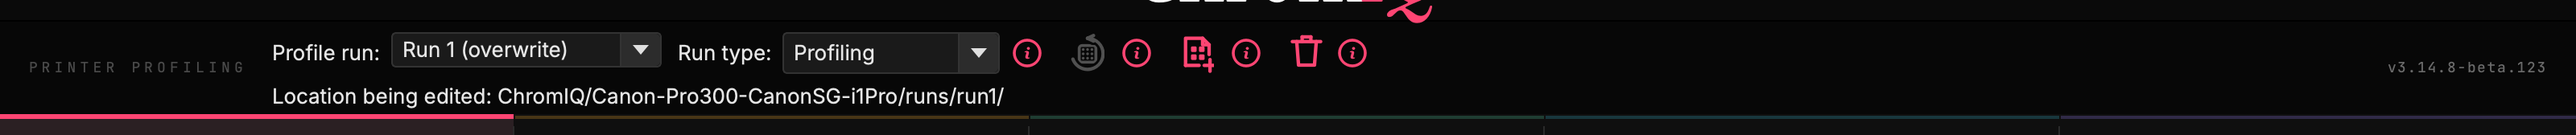
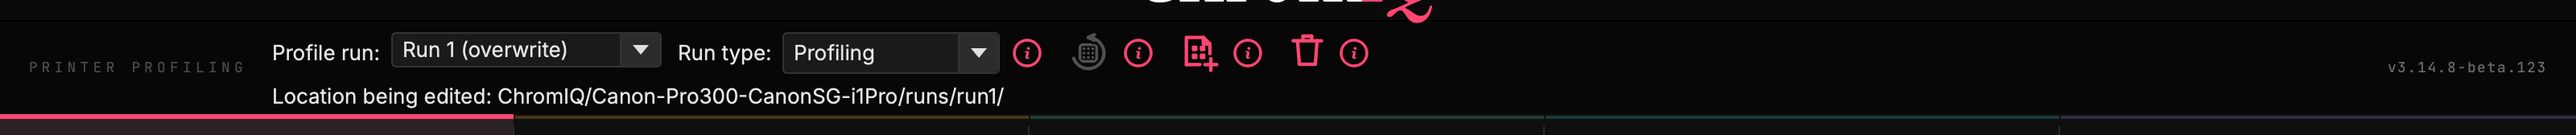
#130: give the marks room to move, then shift the whole cluster 1 px right
Basti asked why the icons were losing pixels. They were, and the reason is that
each mark was drawn on a canvas exactly its own size, so any offset pushed part
of it over the edge. Measured before this change: at right 6 the duplicate mark
had already lost FIVE pixels of its width, and restore one. Neither of us had
noticed — the ⓘ was simply the first place it became obvious.

The mark's pixmap is now the button's full square rather than the mark's own,
which leaves about 6 px of slack on each side. The mark is drawn at the same
size in the middle of it, so nothing on screen changes except that a nudge no
longer costs anything: restore and delete now lose zero pixels, and duplicate
sits exactly at the boundary with nothing lost.

Then the pass he asked for: every mark and every ⓘ one pixel right.

    restore    mark right 4   ·  ⓘ right 1
    duplicate  mark right 7, down 1  ·  ⓘ right 1
    delete     mark right 4, up 2    ·  ⓘ left 1

Changed region(s): [[0.4062, 0.2679, 0.5312, 0.506]]

diff --git a/ui/bar_icons.py b/ui/bar_icons.py
@@ -145,18 +145,27 @@ def draw_restore_chart(p: QPainter, colour: str) -> None:
         p.drawLine(a, b)
 
 
-def _pixmap(draw, colour: str, size: int, nudge: "tuple[float, float]" = (0.0, 0.0)) -> QPixmap:
-    pm = QPixmap(size * 2, size * 2)
+def _pixmap(draw, colour: str, size: int, nudge: "tuple[float, float]" = (0.0, 0.0),
+            canvas: "int | None" = None) -> QPixmap:
+    """The mark at *size*, drawn on a *canvas*-wide pixmap and offset by *nudge*.
+
+    **The canvas is deliberately bigger than the mark.** Drawn edge to edge, a
+    nudged mark loses whatever crosses the boundary — and it did: at right 6 the
+    duplicate mark had lost five pixels of its width before anyone noticed,
+    which is the same fault Basti spotted on the ⓘ (#130, 2026-08-03). Giving
+    the pixmap the button's full width leaves about 6 px of slack on each side,
+    which is enough for every offset the bar uses, and Qt centres the larger
+    icon in the same button so nothing else moves.
+    """
+    canvas = canvas or size
+    pm = QPixmap(canvas * 2, canvas * 2)
     pm.setDevicePixelRatio(2.0)
     pm.fill(Qt.GlobalColor.transparent)
     p = QPainter(pm)
     p.setRenderHint(QPainter.RenderHint.Antialiasing)
+    # Centre the mark's own box on the canvas, then move it by the nudge.
+    p.translate((canvas - size) / 2 + nudge[0], (canvas - size) / 2 + nudge[1])
     p.scale(size / _BOX, size / _BOX)
-    # *nudge* is in device-independent pixels, applied before the glyph is
-    # drawn — so the mark moves inside its box and the button itself does not.
-    # The hit area, the layout and every neighbour stay exactly where they are.
-    if nudge != (0.0, 0.0):
-        p.translate(nudge[0] * _BOX / size, nudge[1] * _BOX / size)
     try:
         draw(p, colour)
     finally:
@@ -233,7 +242,8 @@ class BarIconButton(QToolButton):
         self.setAccessibleName(text)
         self.setToolButtonStyle(Qt.ToolButtonStyle.ToolButtonIconOnly)
         self.setFixedSize(QSize(self.HEIGHT, self.HEIGHT))
-        self.setIconSize(QSize(self.ICON, self.ICON))
+        # The icon is canvas-sized; the MARK inside it is still ICON.
+        self.setIconSize(QSize(self.HEIGHT, self.HEIGHT))
         # Icon-only and mouse-operated: never take keyboard focus, so the space
         # bar can't fire a destructive action just because a tab handed this
         # button the initial focus — the same rule the load buttons follow.
@@ -270,9 +280,10 @@ class BarIconButton(QToolButton):
         return self.GREY_ON_DARK if on_dark else self.GREY_ON_LIGHT
 
     def _apply_icon(self) -> None:
-        icon = QIcon(_pixmap(self._draw, self._colour, self.ICON, self.NUDGE))
+        icon = QIcon(_pixmap(self._draw, self._colour, self.ICON, self.NUDGE,
+                             self.HEIGHT))
         icon.addPixmap(_pixmap(self._draw, self._disabled_colour(), self.ICON,
-                               self.NUDGE),
+                               self.NUDGE, self.HEIGHT),
                        QIcon.Mode.Disabled)
         self.setIcon(icon)
 
@@ -357,7 +368,7 @@ class _RestoreButton(BarIconButton):
     #: the mark's side because moving the ⓘ CLIPPED it: that circle fills all but
     #: about 7 % of its pixmap, while a mark uses roughly two thirds of its box
     #: and has room to move. The gap closes by the same amount either way.
-    NUDGE = (3.0, 0.0)
+    NUDGE = (4.0, 0.0)
 
 
 class _DuplicateButton(BarIconButton):
@@ -365,7 +376,7 @@ class _DuplicateButton(BarIconButton):
     #: then a further right 2 once he saw the whole row). The mark carries its
     #: weight low and left — the "+" hangs off the bottom-right of a page that
     #: sits left in its box.
-    NUDGE = (6.0, 1.0)
+    NUDGE = (7.0, 1.0)
 
 
 class _DeleteButton(BarIconButton):
@@ -373,7 +384,7 @@ class _DeleteButton(BarIconButton):
     #: a further right 2). The lid is a solid horizontal stroke across the top,
     #: which makes the bin read as sitting low. Right 3 after two passes moving
     #: the bin and its ⓘ left together, a pixel at a time (5 → 4 → 3).
-    NUDGE = (3.0, -2.0)
+    NUDGE = (4.0, -2.0)
 
 
 def duplicate_run_button(colour: str, text: str,

diff --git a/tests/test_bar_sits_on_the_masthead_rail.py b/tests/test_bar_sits_on_the_masthead_rail.py
@@ -94,8 +94,8 @@ def test_the_marks_are_geometrically_identical_which_is_the_whole_point():
 def test_duplicate_and_delete_carry_the_values_basti_chose():
     from ui.bar_icons import delete_button, duplicate_run_button
     from ui.styles import SPEC_MAGENTA
-    assert duplicate_run_button(SPEC_MAGENTA, "d").NUDGE == (6.0, 1.0)
-    assert delete_button(SPEC_MAGENTA, "x").NUDGE == (3.0, -2.0)
+    assert duplicate_run_button(SPEC_MAGENTA, "d").NUDGE == (7.0, 1.0)
+    assert delete_button(SPEC_MAGENTA, "x").NUDGE == (4.0, -2.0)
 
 
 def test_restore_moves_right_but_not_vertically():
@@ -103,7 +103,7 @@ def test_restore_moves_right_but_not_vertically():
     keeps its baseline — only its distance to its own ⓘ was corrected."""
     from ui.bar_icons import restore_chart_button
     from ui.styles import SPEC_MAGENTA
-    assert restore_chart_button(SPEC_MAGENTA, "r").NUDGE == (3.0, 0.0)
+    assert restore_chart_button(SPEC_MAGENTA, "r").NUDGE == (4.0, 0.0)
 
 
 def test_the_nudge_moves_the_mark_and_not_the_button(qapp):
@@ -143,9 +143,9 @@ def test_a_nudged_tooltip_icon_grows_instead_of_clipping(qapp):
         "the extra room is on the axis that moved"
 
 
-def test_only_the_delete_tip_is_nudged(qapp, tmp_path):
-    """Basti asked for the bin AND its ⓘ to move together, and for nothing
-    else to move with them."""
+def test_each_tip_travels_with_its_mark(qapp, tmp_path):
+    """Each ⓘ moves with the mark it explains, so the gap within each pair is
+    unchanged and the cluster shifts as a whole."""
     from PyQt6.QtCore import QSettings
     from core.file_manager import FileManager
     from core.settings import AppSettings
@@ -154,6 +154,6 @@ def test_only_the_delete_tip_is_nudged(qapp, tmp_path):
     s = AppSettings()
     s._qs = QSettings(str(tmp_path / "s.ini"), QSettings.Format.IniFormat)
     bar = MeasurementTargetBar(MeasurementTargetController(FileManager(s)))
-    assert bar._delete_tip._nudge == (-2.0, 0.0)
-    assert bar._restore_tip._nudge == (0.0, 0.0)
-    assert bar._duplicate_tip._nudge == (0.0, 0.0)
+    assert bar._delete_tip._nudge == (-1.0, 0.0)
+    assert bar._restore_tip._nudge == (1.0, 0.0)
+    assert bar._duplicate_tip._nudge == (1.0, 0.0)

diff --git a/ui/measurement_target_bar.py b/ui/measurement_target_bar.py
@@ -838,10 +838,13 @@ class MeasurementTargetBar(QWidget):
                                      QSizePolicy.Policy.Preferred)
         column.addWidget(self._location)
 
-        # Delete and its ⓘ move left together (#130, Basti 2026-08-03, two
-        # passes of one pixel) — the pair travels, so the gap between them is
-        # unchanged. The mark carries its own half in _DeleteButton.NUDGE.
-        self._delete_tip.set_nudge(-2.0, 0.0)
+        # Each ⓘ travels with the mark it explains, so the gaps within each pair
+        # stay as they are and the whole cluster shifts (#130, Basti 2026-08-03,
+        # over several passes). The marks carry their own half in the NUDGE of
+        # each button class in ui/bar_icons.py.
+        self._restore_tip.set_nudge(1.0, 0.0)
+        self._duplicate_tip.set_nudge(1.0, 0.0)
+        self._delete_tip.set_nudge(-1.0, 0.0)
 
         self._ctl.changed.connect(self._sync_from_controller)
         self.refresh()

diff --git a/tests/test_bar_icons.py b/tests/test_bar_icons.py
@@ -180,5 +180,9 @@ def test_the_icons_have_a_size_so_the_button_reserves_room():
     assert bi.BarIconButton.ICON == 27
     assert bi.BarIconButton.HEIGHT > bi.BarIconButton.ICON, \
         "the mark would be clipped by its own button"
-    assert "setIconSize(QSize(self.ICON, self.ICON))" in inspect.getsource(
+    # The ICON is the size of the MARK; the icon pixmap handed to Qt is the
+    # button's full square, so a nudged mark has room to move without losing
+    # its edge (#130, Basti 2026-08-03 — at right 6 the duplicate mark had
+    # already lost five pixels of width).
+    assert "setIconSize(QSize(self.HEIGHT, self.HEIGHT))" in inspect.getsource(
         bi.BarIconButton.__init__)
